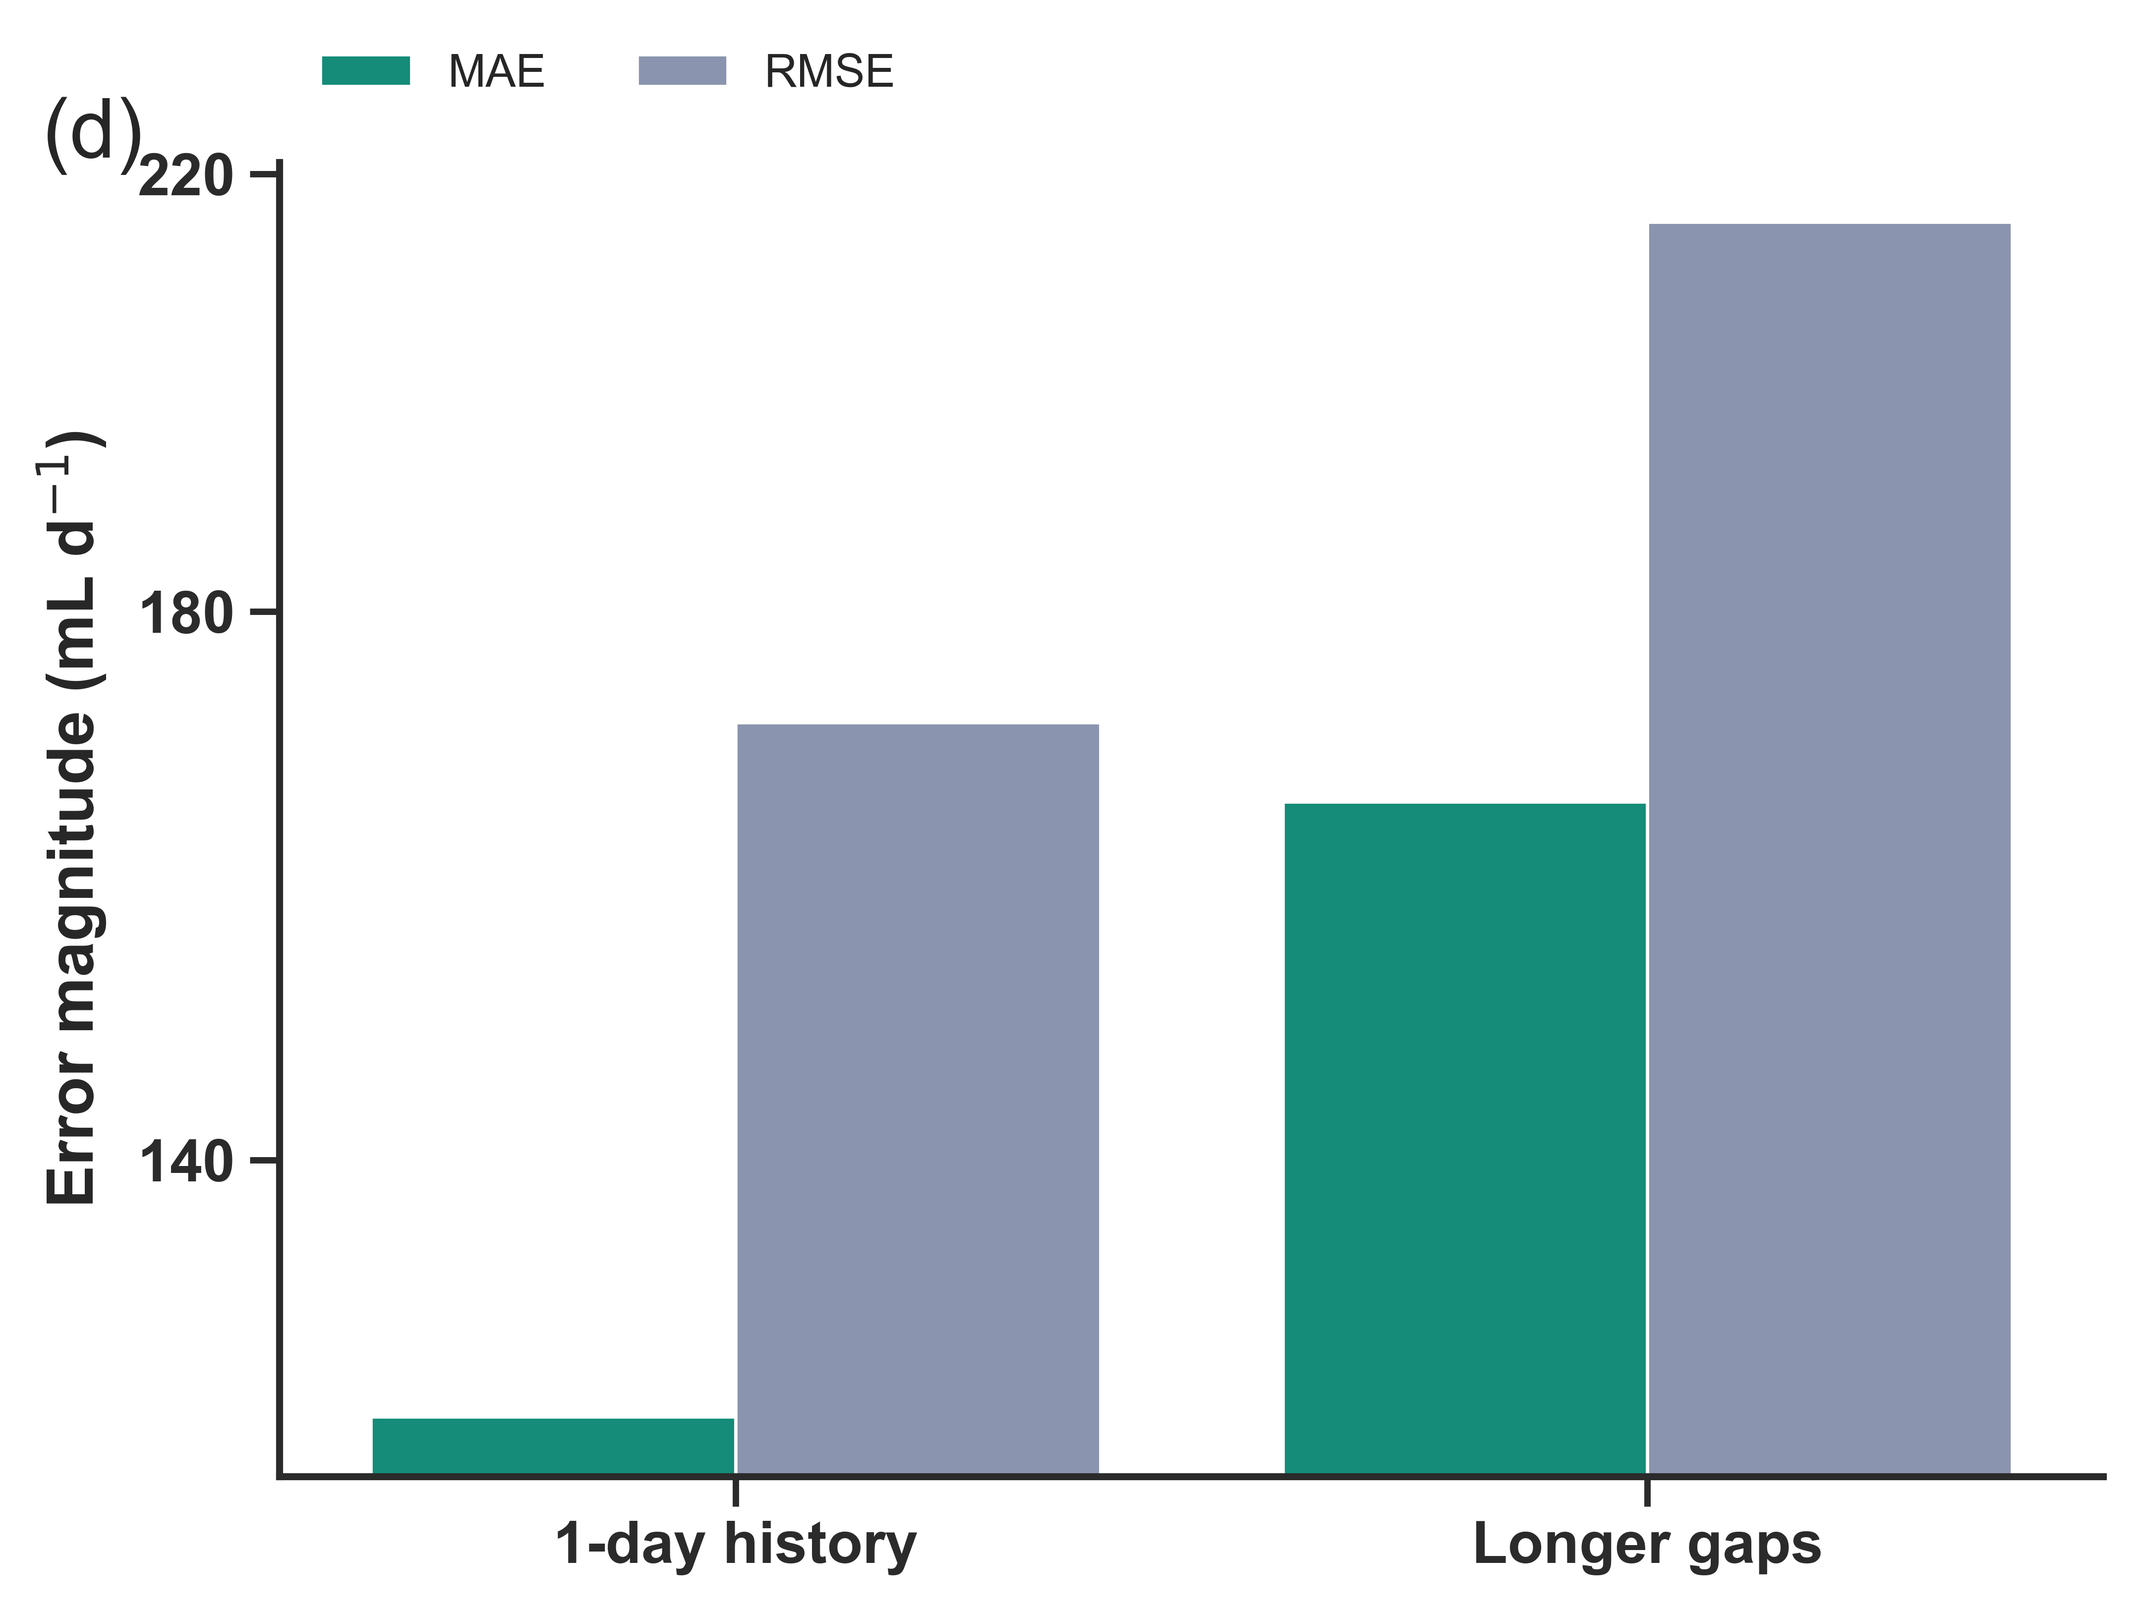
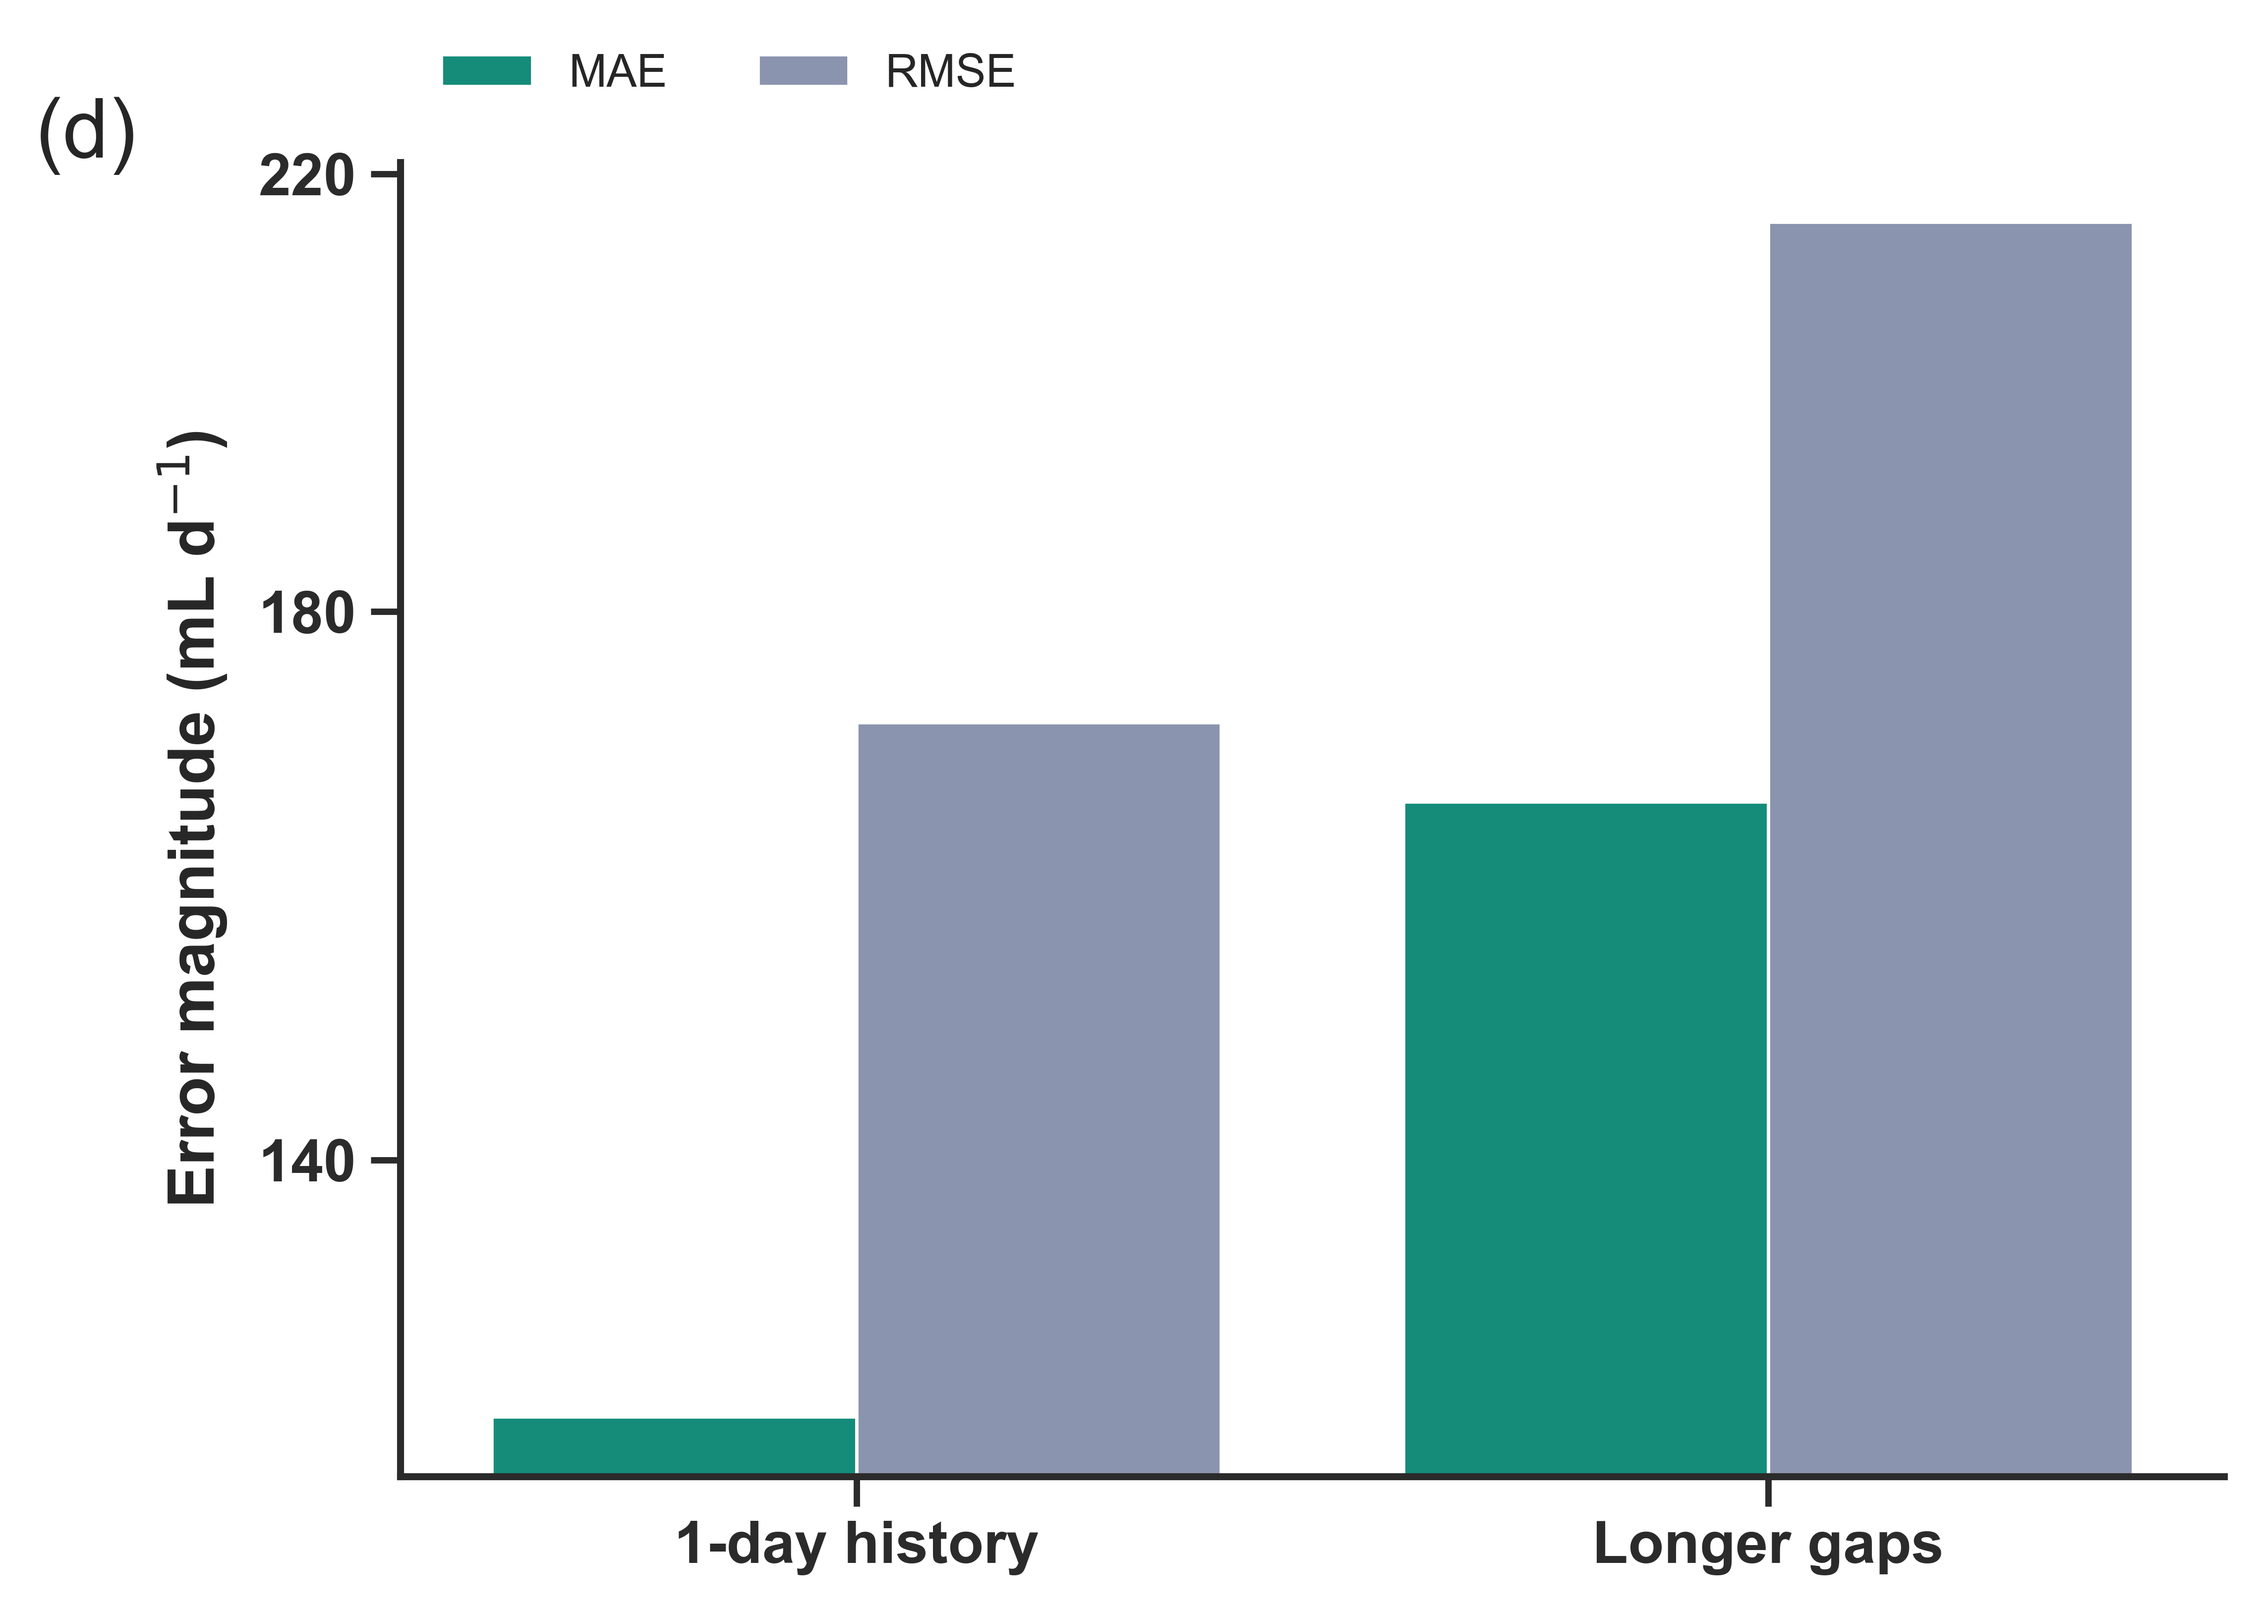
Align diagnostic panel label and retain stable checksum verification

diff --git a/code/refine_figures.py b/code/refine_figures.py
@@ -124,6 +124,9 @@ def save_figure_with_subfigures(fig,stem,axes):
     with warnings.catch_warnings():
         warnings.simplefilter('ignore');fig.tight_layout(pad=1.5,w_pad=2.4,h_pad=2.4,rect=(0,0,1,.97) if fig.legends else None)
     footprints=align_outer_footprints(fig,axes)
+    if stem=='Fig05_residual_reliability':
+        for label in arr[3].texts:
+            if label.get_text()=='(d)':label.set_position((-.20,1.05))
     export_file(fig,FIG/stem,dpi=150 if '--draft' in sys.argv else 600)
     if '--draft' not in sys.argv:export_subfigures(fig,axes,stem)
     records.append({'figure':stem,'horizontal_x_ticks':all(t.get_rotation()==0 for ax in arr for t in ax.get_xticklabels()),'outer_footprints':footprints,'panels':len(arr)})

diff --git a/verify_checksums.py b/verify_checksums.py
@@ -19,7 +19,7 @@ def main():
         generated = []
         snapshot = []
         for f in sorted(ROOT.rglob('*')):
-            if not f.is_file() or '__pycache__' in f.parts:
+            if not f.is_file() or '__pycache__' in f.parts or '.git' in f.parts:
                 continue
             rel = f.relative_to(ROOT)
             if rel.parts[0] in ['code','data']:
